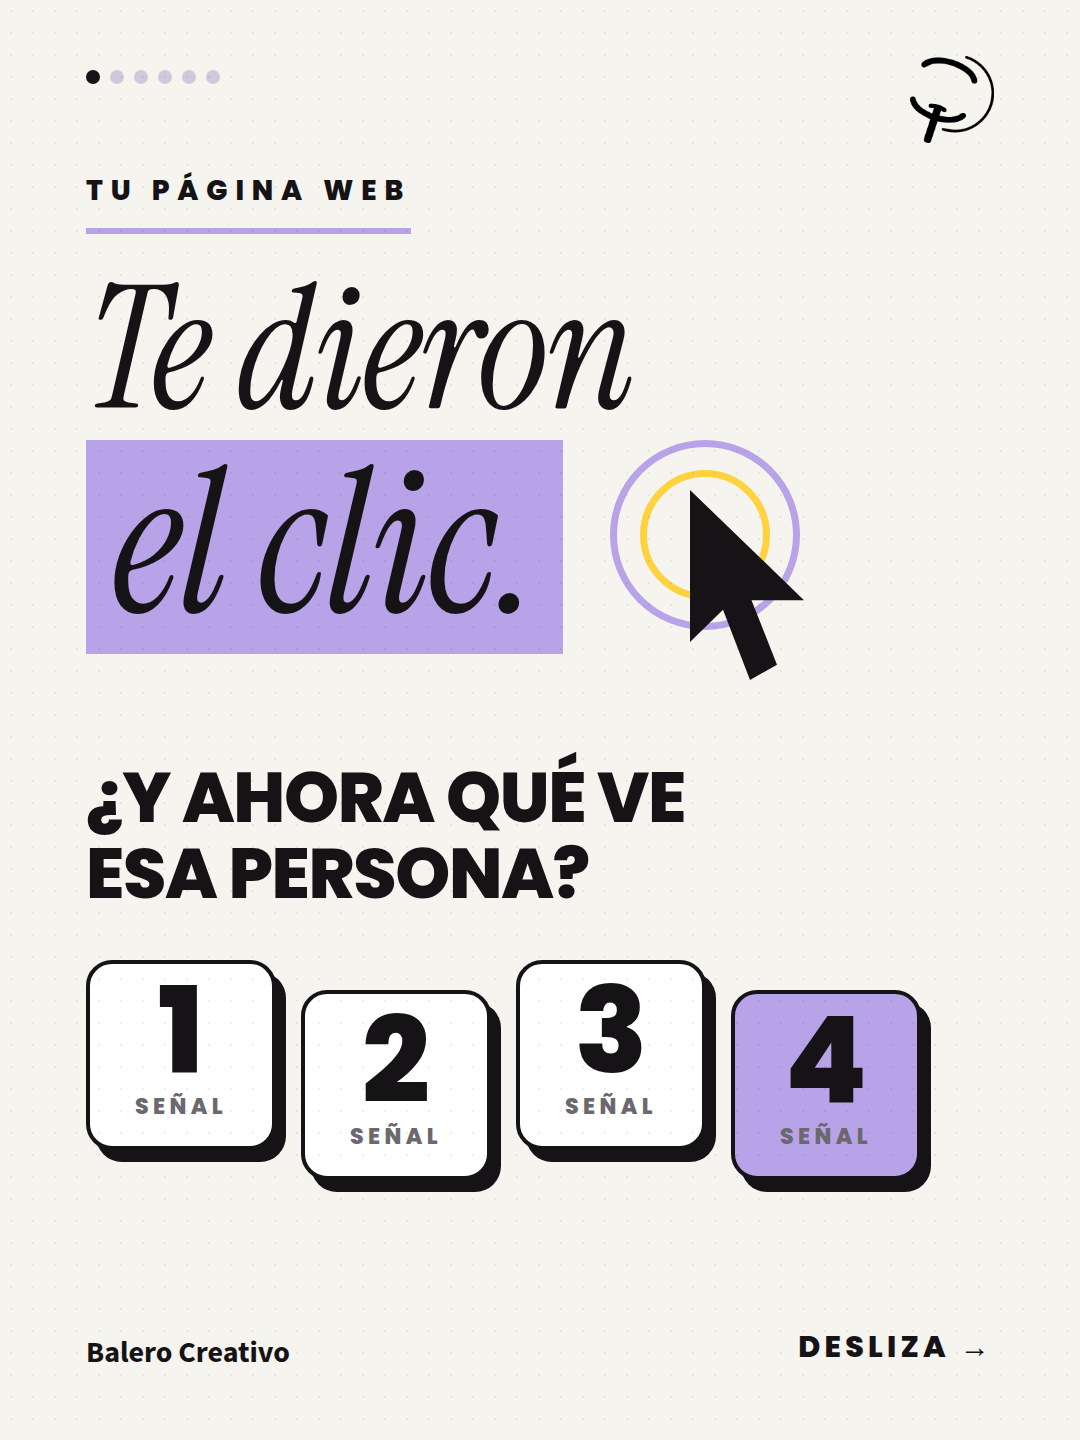
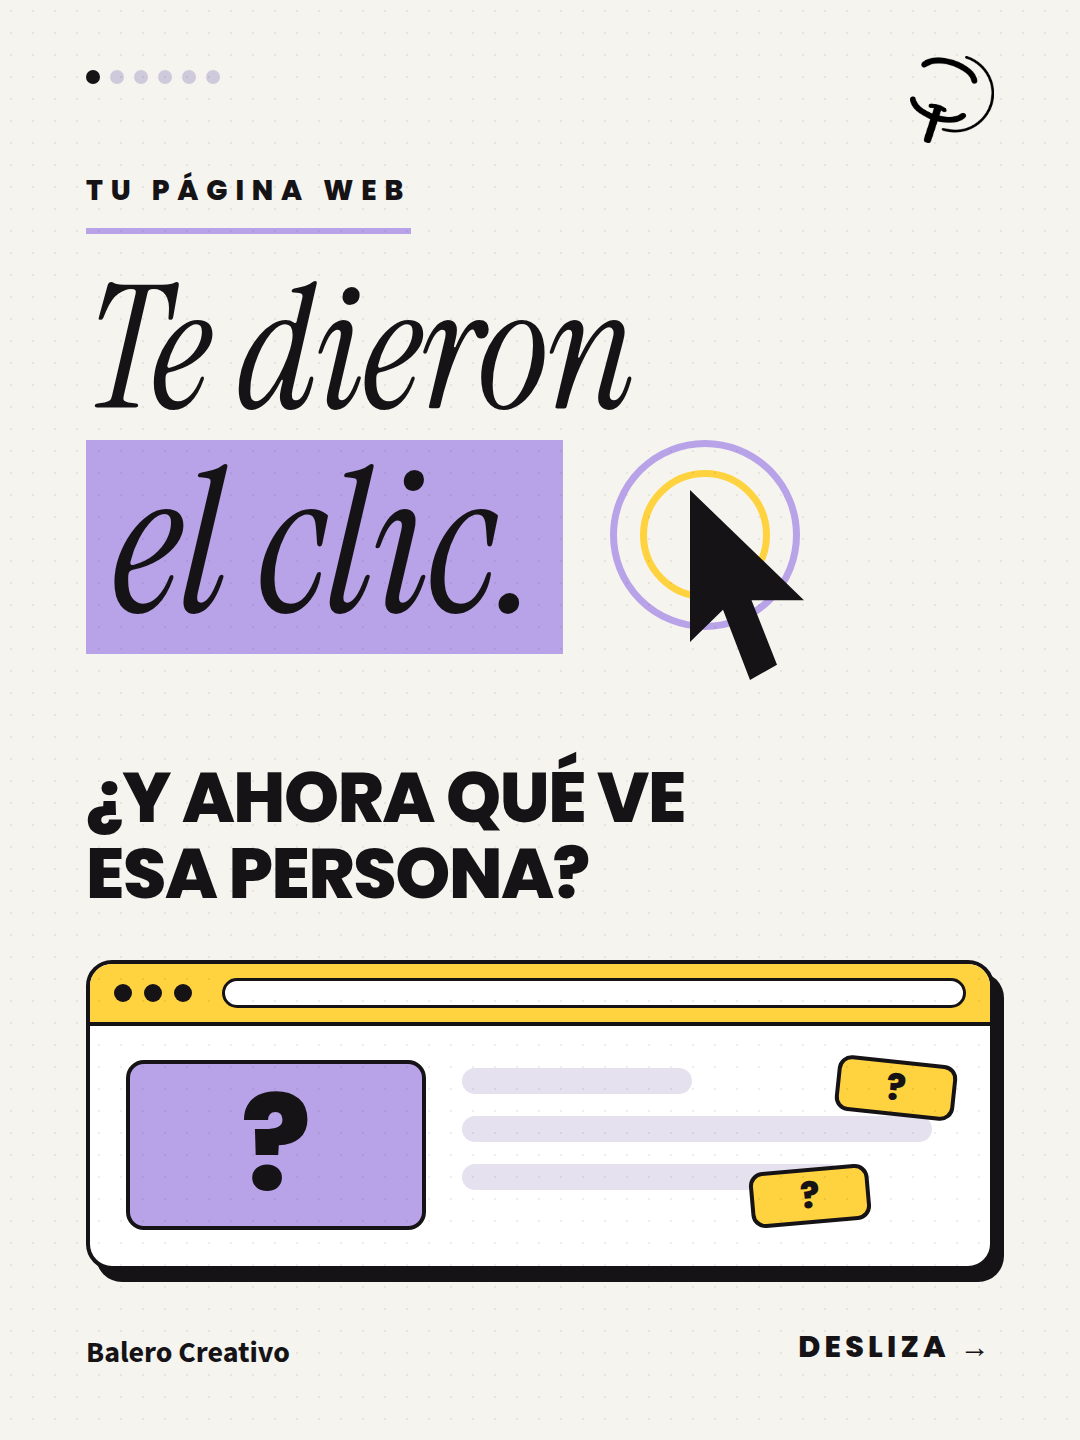
Portada 2 nov: ilustración de ventana de navegador en lugar de tarjetas numeradas
Claude-Session: https://claude.ai/code/session_01Bq7ZC7FDz5LcdZBgNXTuBm

Changed region(s): [[0.0611, 0.6562, 0.9472, 0.9062]]

diff --git a/clientes/balero/diseno/2026-11/estilo-editorial/trust-editorial-v2.html b/clientes/balero/diseno/2026-11/estilo-editorial/trust-editorial-v2.html
@@ -44,7 +44,15 @@ body{background:#888}
 <div class="serif" style="position:absolute;left:86px;top:270px;font-size:170px;line-height:.95">Te dieron</div>
 <div class="serif" style="position:absolute;left:86px;top:440px;font-size:200px;line-height:1"><span class="hl">el clic.</span></div>
 <div class="ring" style="left:640px;top:470px;width:130px;height:130px"></div><div class="ring" style="left:610px;top:440px;width:190px;height:190px;border-color:#B9A3E8"></div><div class="cur" style="left:690px;top:490px"></div>
-<div class="big" style="top:760px;font-size:70px;line-height:1.08">¿Y ahora qué ve<br>esa persona?</div><div class="day" style="left:86px;top:960px;"><b>1</b><small>señal</small></div><div class="day" style="left:301px;top:990px;"><b>2</b><small>señal</small></div><div class="day" style="left:516px;top:960px;"><b>3</b><small>señal</small></div><div class="day" style="left:731px;top:990px;background:#B9A3E8;"><b>4</b><small>señal</small></div><div class="foot"><span>Balero Creativo</span></div><div style="position:absolute;right:86px;bottom:70px;font:800 30px Poppins;letter-spacing:.14em">DESLIZA →</div></div><div class="s" id="s2"><div class="dots"><i style="background:#cfc9dc"></i><i style="background:#151316"></i><i style="background:#cfc9dc"></i><i style="background:#cfc9dc"></i><i style="background:#cfc9dc"></i><i style="background:#cfc9dc"></i></div><img class="logo" src="/home/user/balero/.claude/skills/balero-imagenes/assets/logo-balero.png"><div class="chip">SEÑAL 1</div><div class="t" style="top:290px;font-size:100px">Que te<br>encuentren <span class="serif" style="font-size:1.25em;text-transform:none;font-weight:400;background:#FFD23F;padding:0 18px">ya.</span></div><div class="body" style="top:610px;width:880px">Teléfono, WhatsApp y dirección <b>sin tener que buscarlos</b>. Si dudan dónde escribirte, se van.</div><div class="cmp bad" style="top:790px"><div class="m">✗</div><div><small>ASÍ NO</small>Teléfono escondido en el pie de página</div></div><div class="cmp good" style="top:1040px"><div class="m">✓</div><div><small>ASÍ SÍ</small>WhatsApp y teléfono a la vista, desde el inicio</div></div><div class="foot"><span>Balero Creativo</span></div></div><div class="s" id="s3"><div class="dots"><i style="background:#cfc9dc"></i><i style="background:#cfc9dc"></i><i style="background:#151316"></i><i style="background:#cfc9dc"></i><i style="background:#cfc9dc"></i><i style="background:#cfc9dc"></i></div><img class="logo" src="/home/user/balero/.claude/skills/balero-imagenes/assets/logo-balero.png"><div class="chip">SEÑAL 2</div><div class="t" style="top:290px;font-size:100px">Reseñas<br><span class="serif" style="font-size:1.25em;text-transform:none;font-weight:400;background:#FFD23F;padding:0 18px">reales.</span></div><div class="body" style="top:610px;width:880px">Opiniones de clientes de verdad, <b>con nombre o negocio</b>. Nada inventado.</div><div class="cmp bad" style="top:790px"><div class="m">✗</div><div><small>ASÍ NO</small>“Los mejores del mundo”, sin nombre ni fuente</div></div><div class="cmp good" style="top:1040px"><div class="m">✓</div><div><small>ASÍ SÍ</small>★★★★★ Reseña con nombre, negocio y fecha</div></div><div class="foot"><span>Balero Creativo</span></div></div><div class="s" id="s4"><div class="dots"><i style="background:#cfc9dc"></i><i style="background:#cfc9dc"></i><i style="background:#cfc9dc"></i><i style="background:#151316"></i><i style="background:#cfc9dc"></i><i style="background:#cfc9dc"></i></div><img class="logo" src="/home/user/balero/.claude/skills/balero-imagenes/assets/logo-balero.png"><div class="chip">SEÑAL 3</div><div class="t" style="top:290px;font-size:88px">Responde antes<br>de que <span class="serif" style="font-size:1.25em;text-transform:none;font-weight:400;background:#FFD23F;padding:0 18px">pregunten.</span></div><div class="body" style="top:610px;width:880px">Precio, tiempos, garantías, cómo se trabaja: <b>las dudas comunes, resueltas en la página</b>.</div><div class="cmp bad" style="top:790px"><div class="m">✗</div><div><small>ASÍ NO</small>Tienes que escribir para saber cuánto cuesta</div></div><div class="cmp good" style="top:1040px"><div class="m">✓</div><div><small>ASÍ SÍ</small>Preguntas frecuentes: precio, tiempos y qué incluye</div></div><div class="foot"><span>Balero Creativo</span></div></div><div class="s" id="s5"><div class="dots"><i style="background:#cfc9dc"></i><i style="background:#cfc9dc"></i><i style="background:#cfc9dc"></i><i style="background:#cfc9dc"></i><i style="background:#151316"></i><i style="background:#cfc9dc"></i></div><img class="logo" src="/home/user/balero/.claude/skills/balero-imagenes/assets/logo-balero.png"><div class="chip">SEÑAL 4</div><div class="t" style="top:290px;font-size:100px">Que la página<br>repite el <span class="serif" style="font-size:1.25em;text-transform:none;font-weight:400;background:#FFD23F;padding:0 18px">anuncio.</span></div><div class="body" style="top:610px;width:880px">El mismo mensaje y el mismo diseño. <b>Si cambia, la persona siente que se equivocó de lugar.</b></div>
+<div class="big" style="top:760px;font-size:70px;line-height:1.08">¿Y ahora qué ve<br>esa persona?</div><div style="position:absolute;left:86px;right:86px;top:960px;height:310px;background:#fff;border:4px solid #151316;border-radius:26px;box-shadow:10px 12px 0 #151316;overflow:hidden">
+<div style="height:62px;background:#FFD23F;border-bottom:4px solid #151316;display:flex;align-items:center;gap:12px;padding:0 24px"><i style="width:18px;height:18px;border-radius:50%;background:#151316;display:block"></i><i style="width:18px;height:18px;border-radius:50%;background:#151316;display:block"></i><i style="width:18px;height:18px;border-radius:50%;background:#151316;display:block"></i><div style="margin-left:18px;flex:1;height:30px;border:3px solid #151316;border-radius:16px;background:#fff"></div></div>
+<div style="position:absolute;left:36px;top:96px;width:300px;height:170px;background:#B9A3E8;border:4px solid #151316;border-radius:18px;display:flex;align-items:center;justify-content:center;font:800 130px Poppins">?</div>
+<div style="position:absolute;left:372px;top:104px;width:230px;height:26px;background:#e6e1ef;border-radius:13px"></div>
+<div style="position:absolute;left:372px;top:152px;width:470px;height:26px;background:#e6e1ef;border-radius:13px"></div>
+<div style="position:absolute;left:372px;top:200px;width:380px;height:26px;background:#e6e1ef;border-radius:13px"></div>
+<div style="position:absolute;right:34px;top:96px;width:120px;height:56px;background:#FFD23F;border:4px solid #151316;border-radius:14px;transform:rotate(6deg);text-align:center;font:800 36px/48px Poppins">?</div>
+<div style="position:absolute;right:120px;top:204px;width:120px;height:56px;background:#FFD23F;border:4px solid #151316;border-radius:14px;transform:rotate(-5deg);text-align:center;font:800 36px/48px Poppins">?</div>
+</div><div class="foot"><span>Balero Creativo</span></div><div style="position:absolute;right:86px;bottom:70px;font:800 30px Poppins;letter-spacing:.14em">DESLIZA →</div></div><div class="s" id="s2"><div class="dots"><i style="background:#cfc9dc"></i><i style="background:#151316"></i><i style="background:#cfc9dc"></i><i style="background:#cfc9dc"></i><i style="background:#cfc9dc"></i><i style="background:#cfc9dc"></i></div><img class="logo" src="/home/user/balero/.claude/skills/balero-imagenes/assets/logo-balero.png"><div class="chip">SEÑAL 1</div><div class="t" style="top:290px;font-size:100px">Que te<br>encuentren <span class="serif" style="font-size:1.25em;text-transform:none;font-weight:400;background:#FFD23F;padding:0 18px">ya.</span></div><div class="body" style="top:610px;width:880px">Teléfono, WhatsApp y dirección <b>sin tener que buscarlos</b>. Si dudan dónde escribirte, se van.</div><div class="cmp bad" style="top:790px"><div class="m">✗</div><div><small>ASÍ NO</small>Teléfono escondido en el pie de página</div></div><div class="cmp good" style="top:1040px"><div class="m">✓</div><div><small>ASÍ SÍ</small>WhatsApp y teléfono a la vista, desde el inicio</div></div><div class="foot"><span>Balero Creativo</span></div></div><div class="s" id="s3"><div class="dots"><i style="background:#cfc9dc"></i><i style="background:#cfc9dc"></i><i style="background:#151316"></i><i style="background:#cfc9dc"></i><i style="background:#cfc9dc"></i><i style="background:#cfc9dc"></i></div><img class="logo" src="/home/user/balero/.claude/skills/balero-imagenes/assets/logo-balero.png"><div class="chip">SEÑAL 2</div><div class="t" style="top:290px;font-size:100px">Reseñas<br><span class="serif" style="font-size:1.25em;text-transform:none;font-weight:400;background:#FFD23F;padding:0 18px">reales.</span></div><div class="body" style="top:610px;width:880px">Opiniones de clientes de verdad, <b>con nombre o negocio</b>. Nada inventado.</div><div class="cmp bad" style="top:790px"><div class="m">✗</div><div><small>ASÍ NO</small>“Los mejores del mundo”, sin nombre ni fuente</div></div><div class="cmp good" style="top:1040px"><div class="m">✓</div><div><small>ASÍ SÍ</small>★★★★★ Reseña con nombre, negocio y fecha</div></div><div class="foot"><span>Balero Creativo</span></div></div><div class="s" id="s4"><div class="dots"><i style="background:#cfc9dc"></i><i style="background:#cfc9dc"></i><i style="background:#cfc9dc"></i><i style="background:#151316"></i><i style="background:#cfc9dc"></i><i style="background:#cfc9dc"></i></div><img class="logo" src="/home/user/balero/.claude/skills/balero-imagenes/assets/logo-balero.png"><div class="chip">SEÑAL 3</div><div class="t" style="top:290px;font-size:88px">Responde antes<br>de que <span class="serif" style="font-size:1.25em;text-transform:none;font-weight:400;background:#FFD23F;padding:0 18px">pregunten.</span></div><div class="body" style="top:610px;width:880px">Precio, tiempos, garantías, cómo se trabaja: <b>las dudas comunes, resueltas en la página</b>.</div><div class="cmp bad" style="top:790px"><div class="m">✗</div><div><small>ASÍ NO</small>Tienes que escribir para saber cuánto cuesta</div></div><div class="cmp good" style="top:1040px"><div class="m">✓</div><div><small>ASÍ SÍ</small>Preguntas frecuentes: precio, tiempos y qué incluye</div></div><div class="foot"><span>Balero Creativo</span></div></div><div class="s" id="s5"><div class="dots"><i style="background:#cfc9dc"></i><i style="background:#cfc9dc"></i><i style="background:#cfc9dc"></i><i style="background:#cfc9dc"></i><i style="background:#151316"></i><i style="background:#cfc9dc"></i></div><img class="logo" src="/home/user/balero/.claude/skills/balero-imagenes/assets/logo-balero.png"><div class="chip">SEÑAL 4</div><div class="t" style="top:290px;font-size:100px">Que la página<br>repite el <span class="serif" style="font-size:1.25em;text-transform:none;font-weight:400;background:#FFD23F;padding:0 18px">anuncio.</span></div><div class="body" style="top:610px;width:880px">El mismo mensaje y el mismo diseño. <b>Si cambia, la persona siente que se equivocó de lugar.</b></div>
 <div class="mini2" style="left:86px;top:800px;opacity:.6;border-style:dashed"><small>ANUNCIO</small>Envío gratis hoy</div><div class="sym" style="left:512px;top:830px">≠</div><div class="mini2" style="left:604px;top:800px;opacity:.6;border-style:dashed"><small>PÁGINA</small>Catálogo general</div>
 <div class="mini2" style="left:86px;top:1060px;background:#B9A3E8;box-shadow:8px 9px 0 #151316"><small>ANUNCIO</small>Envío gratis hoy</div><div class="sym" style="left:512px;top:1090px">=</div><div class="mini2" style="left:604px;top:1060px;background:#B9A3E8;box-shadow:8px 9px 0 #151316"><small>PÁGINA</small>Envío gratis hoy</div><div class="foot"><span>Balero Creativo</span></div><div style="position:absolute;right:86px;bottom:70px;font:600 24px 'Source Sans Pro';color:#6B6870">Ejemplo ilustrativo</div></div><div class="s" id="s6"><div class="dots"><i style="background:#cfc9dc"></i><i style="background:#cfc9dc"></i><i style="background:#cfc9dc"></i><i style="background:#cfc9dc"></i><i style="background:#cfc9dc"></i><i style="background:#151316"></i></div><img class="logo" src="/home/user/balero/.claude/skills/balero-imagenes/assets/logo-balero.png"><div class="kick" style="top:170px">Antes de pagar más publicidad</div>
 <div class="serif" style="position:absolute;left:86px;top:270px;font-size:104px;line-height:1">Revisa tu página.</div>
